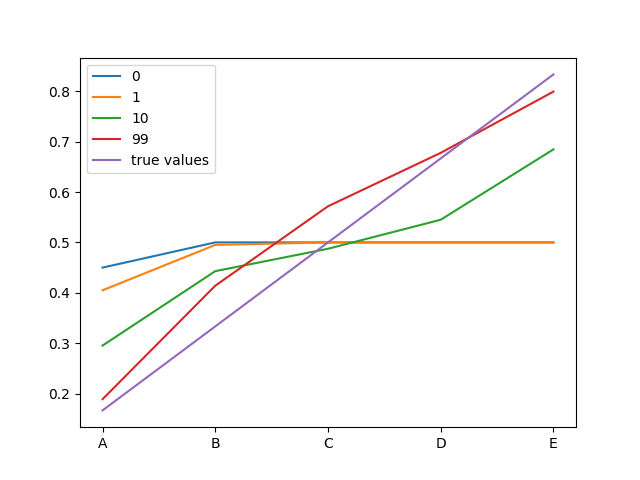
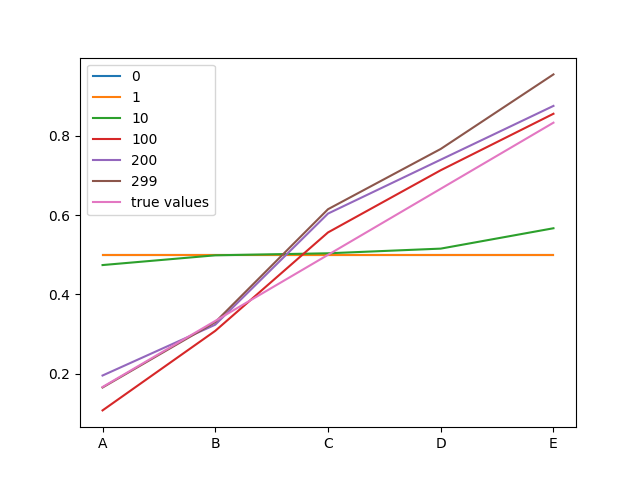
update 6.6 and 6.7

diff --git a/chap 6/6_6_7.py b/chap 6/6_6_7.py
@@ -10,11 +10,11 @@ import random
 
 class CFG:
 
-    episode = 100
+    episode = 500
     MC_alpha = [0.01, 0.02, 0.03, 0.04]
     TD_alpha = [0.05, 0.1, 0.15]
     target = [1/6, 2/6, 3/6, 4/6, 5/6]
-    run = 100
+    run = 500
     garma = 1.0
 
 # ======================== init ======================================
@@ -25,11 +25,10 @@ class game():
         self.policy = np.full((7,2), 0.5)
         self.Left = -1
         self.Right = 1
+        self.Stop = 0
         self.actions = [self.Left, self.Right]
-        self.FristEnd = 0
+        self.FirstEnd = 0
         self.LastEnd = 6
-        self.value_function[self.FristEnd] = 0
-        self.value_function[self.LastEnd] = 1
         self.alpha = alpha
         self.TypeAlgo = TypeAlgo
 
@@ -47,16 +46,17 @@ class game():
         cur = 3
         reward = 0
 
-        while(cur != self.FristEnd and cur != self.LastEnd):
+        while(cur != self.FirstEnd and cur != self.LastEnd):
             action = np.random.choice(self.actions, p=self.policy[cur, :])
-            # if (cur + action == self.LastEnd):
-            #     state_reward = 1
-            # else:
-            #     state_reward = 0
             state_reward = 0
             his.append((cur, action, state_reward))
             cur += action
             reward += state_reward
+        if cur == self.LastEnd:
+            state_reward = 1
+        else:
+            state_reward = 0
+        his.append((cur, self.Stop, state_reward))
 
         return his, reward
 
@@ -65,7 +65,7 @@ class game():
         cur = 3
         reward = 0
 
-        while(cur != self.FristEnd and cur != self.LastEnd):
+        while(cur != self.FirstEnd and cur != self.LastEnd):
             action = np.random.choice(self.actions, p=self.policy[cur, :])
             if (cur + action == self.LastEnd):
                 state_reward = 1
@@ -84,7 +84,7 @@ class game():
             return self.update_TD(state, state + action, state_reward)
 
     def update_TD(self, state, Nstate, state_reward):
-        up = self.alpha * (state_reward + CFG.garma * self.value_function[Nstate] - self.value_function[state])
+        up = self.alpha * (state_reward + CFG.garma * self.value_function[Nstate] * int(state != Nstate) - self.value_function[state])
         self.value_function[state] += up
         return up
     
@@ -130,7 +130,7 @@ def TD_evaluate(episode, alpha, TDplot = False):
             env.value_function += update
             error.append(np.sqrt(np.sum(np.power(env.get_value_function()[1:-1] - CFG.target, 2))/5.0))
             if (r == 1 and TDplot):
-                if (ep == 0 or ep == 1 or ep == 10 or ep == 99):
+                if (ep == 0 or ep == 1 or ep == 10 or ep == 100 or ep == 200 or ep == 299):
                     plt.plot(env.get_value_function()[1:-1], label = f'{ep}')
         error = np.asarray(error)
         total_error += error
@@ -140,6 +140,7 @@ def TD_evaluate(episode, alpha, TDplot = False):
             plt.legend()
             plt.savefig('figure_6_6/6_6.png')
             plt.close()
+            return
     
     return total_error/CFG.run
 
